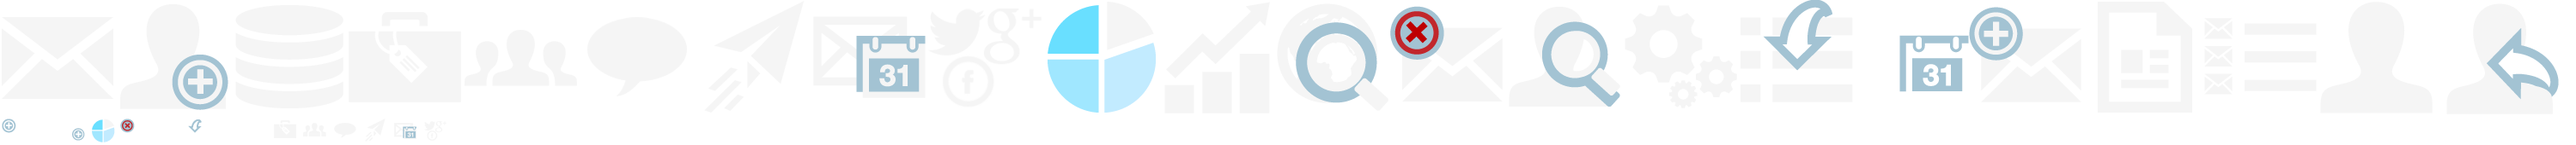
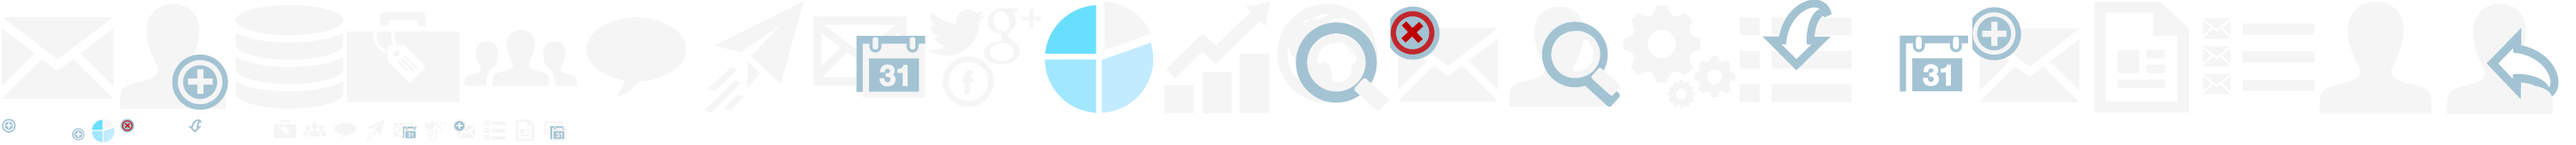
no message

diff --git a/public/b3/css/sm-email-theme.css b/public/b3/css/sm-email-theme.css
@@ -1,1 +1,1 @@
-body{background-color:#f5f5f5}.space{margin-bottom:40px}.wrap{background-color:#e9eff2;padding:12px 0;margin-bottom:20px}.wrapper{padding:25px;margin-bottom:20px}h4.sectiontitle{background-color:#e9eff2;padding:10px;color:#20526e;margin-bottom:30px}.box-dashboard-summary{border-radius:6px;margin:0 0 30px 0;padding:20px 0;text-align:center;color:#f5f5f5}[class^="sm-icons-summary-"]{background:transparent url('../images/sm-icons.png') no-repeat 0 0;height:46px;width:46px}.sm-icons-summary-opens{background-position:0 0}.sm-icons-summary-clicks{background-position:-47px 0}.sm-icons-summary-unsubscribed{background-position:-94px 0}.sm-icons-summary-bounced{background-position:-141px 0}.sm-icons-summary-fb{background-position:-188px 0}.sm-icons-summary-tw{background-position:-235px 0}.summary-opens{background:#97c86b}.number-stats-dashboard-summary{font-size:48px;color:#f5f5f5;padding:20px 8px;text-align:center}@media screen and (max-width:1280px){.number-stats-dashboard-summary{font-size:36px}}@media screen and (max-width:1024px){.number-stats-dashboard-summary{font-size:32px}}@media screen and (max-width:800px){.number-stats-dashboard-summary{font-size:26px}}.summary-unsubscribed{background-color:#a1dcfb}.summary-clicks{background-color:#6e97ac}.summary-bounced{background-color:#ffa100}.summary-box-social{background-color:#adadad;padding-bottom:0}.border-top{border-top:1px solid #f5f5f5}.social-sec-box{padding-bottom:5px;padding-top:5px;border-left:1px solid #f5f5f5}.social-sec-box:first-child{border-left:0}.summary-fb p{padding-right:10px;text-align:right;font-size:20px}.table-normal thead th{height:100px;vertical-align:bottom;text-align:center;font-weight:normal}.table-normal thead th.opens{background:transparent url('../images/icon-email-open-color.png') no-repeat center 12px;color:#97c86b}.table-normal thead th.clics{background:transparent url('../images/icon-clics-color.png') no-repeat center 12px;color:#6e97ac}.table-normal thead th.desusc{background:transparent url('../images/icon-desusc-color.png') no-repeat center 12px;color:#a1dcfb}.table-normal thead th.bounced{background:transparent url('../images/icon-bounced-color.png') no-repeat center 12px;color:#ffa100}.table-normal tbody td{text-align:center}.table-normal tbody td.left{text-align:left}.jqstooltip{-webkit-box-sizing:content-box;-moz-box-sizing:content-box;box-sizing:content-box}#sidebar-background-object{position:fixed;height:100%;top:0;background-color:#20526e}.sidebar{background-color:#20526e;height:100%;float:left;margin:0;padding:0;z-index:2}#main-navigation li{border-left:6px solid #f5f5f5;margin-top:0}#main-navigation li a{color:#e6ba7b;font-size:15px;padding:15px}#main-navigation li.active,#main-navigation li:hover{background-color:#f5f5f5;border-left:6px solid #20526e;border-radius:0}#main-navigation li.active a,#main-navigation li:hover a{background-color:#f5f5f5;border-radius:0;color:#20526e}.navbar-default{background-color:#20526e;border-radius:0;border-color:#20526e;margin-bottom:0}#top-nav li a{color:#f5f5f5}#top-nav li:hover a{color:#777}.sm-btn-blue{background-color:#a4c3d4}.sm-btn-blue:hover{background-color:#315467}.sm-btn-blue.active{background-color:#adadad}.to-do{text-align:center;display:block;border-radius:3px;padding:32px;background-color:#a4c3d4;width:190px;height:190px;margin-bottom:10px}.small-btn{width:42px;height:42px;margin:0;padding-top:3px;border-radius:2px}.small-btn a{display:inline-block}.sm-button-large-base,.sm-button-large-email,.sm-button-large-add-contacts,.sm-button-large-database,.sm-button-large-accounts,.sm-button-large-users,.sm-button-large-msj,.sm-button-large-send-process,.sm-button-large-program-envios,.sm-button-large-socialnet,.sm-button-large-contact-list,.sm-button-large-segment,.sm-button-large-bloq-list,.sm-button-large-contact-search,.sm-button-large-settings,.sm-button-large-import-list,.sm-button-large-admin-prog,.sm-button-large-email-new,.sm-button-large-plantillas,.sm-button-large-email-list{background:transparent url('../images/icon-buttons.png') no-repeat center center;height:134px;width:134px;display:inline-block}.sm-button-large-email{background-position:0 0}.sm-button-large-add-contacts{background-position:-135px 0}.sm-button-large-database{background-position:-270px 0}.sm-button-large-accounts{background-position:-405px 0}.sm-button-large-users{background-position:-540px 0}.sm-button-large-msj{background-position:-675px 0}.sm-button-large-send-process{background-position:-810px 0}.sm-button-large-program-envios{background-position:-945px 0}.sm-button-large-socialnet{background-position:-1080px 0}.sm-button-large-contact-list{background-position:-2700px 0}.sm-button-large-segment{background-position:-1215px 0}.sm-button-large-bloq-list{background-position:-1620px 0}.sm-button-large-contact-search{background-position:-1755px 0}.sm-button-large-settings{background-position:-1890px 0}.sm-button-large-import-list{background-position:-2025px 0}.sm-button-large-admin-prog{background-position:-2160px 0}.sm-button-large-email-new{background-position:-2295px 0}.sm-button-large-plantillas{background-position:-2430px 0}.sm-button-large-email-list{background-position:-2565px 0}.btn-actn{color:#123377;font-size:18px;text-align:center}.sm-button-small-base,.sm-button-small-email,.sm-button-small-contact-list,.sm-button-small-database,.sm-button-small-bloq-list,.sm-button-small-settings,.sm-button-small-import-contacts,.sm-button-small-import-list,.sm-button-small-segment,.sm-button-small-contact-search,.sm-button-small-account,.sm-button-small-user,.sm-button-small-msj,.sm-button-small-send,.sm-button-small-scheduledmail,.sm-button-small-social,.sm-button-small-emal-new,.sm-button-small-email-list{background:transparent url('../images/icon-buttons.png') no-repeat center center;height:34px;width:34px;display:inline-block}.sm-button-small-email{background-position:0 -135px}.sm-button-small-contact-list{background-position:-35px -135px}.sm-button-small-database{background-position:-280px -135px}.sm-button-small-bloq-list{background-position:-140px -135px}.sm-button-small-settings{background-position:-175px -135px}.sm-button-small-import-contacts{background-position:-210px -129}.sm-button-small-import-list{background-position:-210px -135px}.sm-button-small-segment{background-position:-105px -135px}.sm-button-small-contact-search{background-position:-70px -135px}.sm-button-small-account{background-position:-315px -135px}.sm-button-small-user{background-position:-350px -135px}.sm-button-small-msj{background-position:-385px -135px}.sm-button-small-send{background-position:-420px -135px}.sm-button-small-scheduledmail{background-position:-455px -135px}.sm-button-small-social{background-position:-490px -135px}.sm-button-small-emal-new{background-position:-525px -135px}.sm-button-small-email-list{background-position:-560px -135px}.numbers-contacts{margin-bottom:0}.numbers-contacts li{margin-bottom:0;text-align:center;padding:0 15px}.big-number{font-size:30px}.blue{color:#6e97ac}.sad-blue{color:#b3e3e4}.gray{color:#9d9d9d}.green{color:#97c86b}.orange{color:#ef8807}.red{color:#bd1b06}.btn-default{background-color:#ccc;color:#428bca;border:none}.btn-default:hover{text-decoration:underline;color:#666;transition:background-color .5s ease;text-decoration:none;background-color:#b3b3b3}.extra-padding{padding-right:25px;padding-left:25px}.btn-danger{border:none}.btn-delete:hover{background-color:#ac1905;color:#f5f5f5;text-decoration:none}.btn-guardar{background-color:#5cb85c;color:#f5f5f5;text-decoration:none}.btn-guardar:hover{transition:background-color .5s ease;background-color:#5eab07;text-decoration:none}.btn-add:hover{transition:background-color .5s ease;background-color:#58abca;color:#eee;text-decoration:none}.no-bg{background-color:transparent}.no-bg:hover{background-color:transparent;border:none;box-shadow:none}.btn-group.open .dropdown-toggle{box-shadow:none}table.table-contacts tbody tr td{vertical-align:middle}.inactive{background-color:#808080;width:15px}.unsubscribed{background-color:#333;width:15px}.frame-bg-pd{background-color:#eee;padding-top:9px;padding-bottom:0;margin-bottom:15px}.alert-success span{font-size:40px}.form-actions{padding:25px 80px 25px 0}span.required{color:#d9534f;padding-right:4px}.estado-contact .inactive{background-color:#b3e3e4;width:15px}.estado-contact .unsubscribed{background-color:#9d9d9d;width:15px}.bs-callout-primary{display:block;margin:20px 0;padding:15px 30px 15px 15px;border-left:5px solid #428bca;background-color:#f5f9fc}.bs-callout-primary h1,.bs-callout-primary h2,.bs-callout-primary h3,.bs-callout-primary h4,.bs-callout-primary h5,.bs-callout-primary h6{margin-top:0;color:#428bca}.bs-callout-primary p:last-child{margin-bottom:0}.bs-callout-primary code,.bs-callout-primary .highlight{background-color:#fff}.bs-callout-danger{display:block;margin:20px 0;padding:15px 30px 15px 15px;border-left:5px solid #d9534f;background-color:#f9e2e2}.bs-callout-danger h1,.bs-callout-danger h2,.bs-callout-danger h3,.bs-callout-danger h4,.bs-callout-danger h5,.bs-callout-danger h6{margin-top:0;color:#d9534f}.bs-callout-danger p:last-child{margin-bottom:0}.bs-callout-danger code,.bs-callout-danger .highlight{background-color:#fff}.bs-callout-warning{display:block;margin:20px 0;padding:15px 30px 15px 15px;border-left:5px solid #f0ad4e;background-color:#fceedb}.bs-callout-warning h1,.bs-callout-warning h2,.bs-callout-warning h3,.bs-callout-warning h4,.bs-callout-warning h5,.bs-callout-warning h6{margin-top:0;color:#f0ad4e}.bs-callout-warning p:last-child{margin-bottom:0}.bs-callout-warning code,.bs-callout-warning .highlight{background-color:#fff}.bs-callout-info{display:block;margin:20px 0;padding:15px 30px 15px 15px;border-left:5px solid #5bc0de;background-color:#f0f9fc}.bs-callout-info h1,.bs-callout-info h2,.bs-callout-info h3,.bs-callout-info h4,.bs-callout-info h5,.bs-callout-info h6{margin-top:0;color:#5bc0de}.bs-callout-info p:last-child{margin-bottom:0}.bs-callout-info code,.bs-callout-info .highlight{background-color:#fff}.bs-callout-success{display:block;margin:20px 0;padding:15px 30px 15px 15px;border-left:5px solid #5cb85c;background-color:#d8eed8}.bs-callout-success h1,.bs-callout-success h2,.bs-callout-success h3,.bs-callout-success h4,.bs-callout-success h5,.bs-callout-success h6{margin-top:0;color:#5cb85c}.bs-callout-success p:last-child{margin-bottom:0}.bs-callout-success code,.bs-callout-success .highlight{background-color:#fff}.table-striped tbody tr.spreadout>td{background-color:#f0eedf}.table-striped tbody tr.spreadout:nth-child(odd)>td{background-color:#f0eedf}.report h4{color:#20526e}.mini-icon{color:#20526e;font-size:20px;padding-top:6px}table.hight-line>tbody>tr>th{line-height:2.2}table.middle>tbody>tr>th>td{vertical-align:middle}.right{text-align:right}.padding-top{padding-top:15px}#colorchart td{width:25px !important;height:25px !important;cursor:pointer;border:2px #d3d3d3 solid}#colorchart{border-collapse:separate;border:4px #808080 solid}#color.text-for-db-color{display:none !important}#colorchart td:hover{opacity:.5}.color-selected{border:2px #00f solid !important}.list-inline>li.card{padding:5px 20px;border-radius:5px;color:#f5f5f5;text-align:center}.list-inline>li.card span{font-size:30px}.card{margin:0 10px}.cont{background-color:#97c86b}.list{background-color:#ff90a8}.seg{background-color:#6e97ac}.bs-ember-href li a{cursor:pointer}.pointer{cursor:pointer}.border{border:1px solid #c3c3c3}.sm-striped-bg{width:12px;background-size:30px 30px;background-image:linear-gradient(45deg, rgba(0,0,0,0.1) 25%, transparent 25%, transparent 50%, rgba(0,0,0,0.1) 50%, rgba(0,0,0,0.1) 75%, transparent 75%, transparent)}.sm-striped-bg-sm{width:4px;background-size:30px 30px;background-image:linear-gradient(45deg, rgba(0,0,0,0.1) 25%, transparent 25%, transparent 50%, rgba(0,0,0,0.1) 50%, rgba(0,0,0,0.1) 75%, transparent 75%, transparent)}.border-left{border-left:1px solid #c9c9c9}.preview-mail{margin:0 15px 0 0}.item-thumb{margin-bottom:20px}.paneltitle{color:#f0ad4e;border-bottom:2px solid #f0ad4e}.mail-wrapper{background-color:#fff;border:15px solid transparent;padding:25px}.border-mail{-webkit-border-image:url('../images/bg-border-mail.png') 20 20 round;-o-border-image:url('../images/bg-border-mail.png') 20 20 round;border-image:url('../images/bg-border-mail.png') 20 20 round}.thumn-hight{height:414px}.bg-wrap-calendar{background:transparent url("../images/bg-calendar.png") no-repeat 0 0;margin-top:0;width:160px;height:160px}.date{text-align:center;padding-top:36px}.day-send{color:#ac1905;font-size:60px;margin:0}.month-send{font-size:15px;margin:0}.year-send{font-size:15px;margin:0}.time-send{color:#ac1905;font-size:60px;margin:0}.bg-wrap-time{border:4px solid #585858;border-radius:3px;background-color:#303030;margin-top:40px;text-align:center;padding:0 15px;width:200px}.time-send{color:#fff}.width-fix{width:100%}
+body{background-color:#f5f5f5}.space{margin-bottom:40px}.wrap{background-color:#e9eff2;padding:12px 0;margin-bottom:20px}.wrapper{padding:25px;margin-bottom:20px}h4.sectiontitle{background-color:#e9eff2;padding:10px;color:#20526e;margin-bottom:30px}.box-dashboard-summary{border-radius:6px;margin:0 0 30px 0;padding:20px 0;text-align:center;color:#f5f5f5}[class^="sm-icons-summary-"]{background:transparent url('../images/sm-icons.png') no-repeat 0 0;height:46px;width:46px}.sm-icons-summary-opens{background-position:0 0}.sm-icons-summary-clicks{background-position:-47px 0}.sm-icons-summary-unsubscribed{background-position:-94px 0}.sm-icons-summary-bounced{background-position:-141px 0}.sm-icons-summary-fb{background-position:-188px 0}.sm-icons-summary-tw{background-position:-235px 0}.summary-opens{background:#97c86b}.number-stats-dashboard-summary{font-size:48px;color:#f5f5f5;padding:20px 8px;text-align:center}@media screen and (max-width:1280px){.number-stats-dashboard-summary{font-size:36px}}@media screen and (max-width:1024px){.number-stats-dashboard-summary{font-size:32px}}@media screen and (max-width:800px){.number-stats-dashboard-summary{font-size:26px}}.summary-unsubscribed{background-color:#a1dcfb}.summary-clicks{background-color:#6e97ac}.summary-bounced{background-color:#ffa100}.summary-box-social{background-color:#adadad;padding-bottom:0}.border-top{border-top:1px solid #f5f5f5}.social-sec-box{padding-bottom:5px;padding-top:5px;border-left:1px solid #f5f5f5}.social-sec-box:first-child{border-left:0}.summary-fb p{padding-right:10px;text-align:right;font-size:20px}.table-normal thead th{height:100px;vertical-align:bottom;text-align:center;font-weight:normal}.table-normal thead th.opens{background:transparent url('../images/icon-email-open-color.png') no-repeat center 12px;color:#97c86b}.table-normal thead th.clics{background:transparent url('../images/icon-clics-color.png') no-repeat center 12px;color:#6e97ac}.table-normal thead th.desusc{background:transparent url('../images/icon-desusc-color.png') no-repeat center 12px;color:#a1dcfb}.table-normal thead th.bounced{background:transparent url('../images/icon-bounced-color.png') no-repeat center 12px;color:#ffa100}.table-normal tbody td{text-align:center}.table-normal tbody td.left{text-align:left}.jqstooltip{-webkit-box-sizing:content-box;-moz-box-sizing:content-box;box-sizing:content-box}#sidebar-background-object{position:fixed;height:100%;top:0;background-color:#20526e}.sidebar{background-color:#20526e;height:100%;float:left;margin:0;padding:0;z-index:2}#main-navigation li{border-left:6px solid #f5f5f5;margin-top:0}#main-navigation li a{color:#e6ba7b;font-size:15px;padding:15px}#main-navigation li.active,#main-navigation li:hover{background-color:#f5f5f5;border-left:6px solid #20526e;border-radius:0}#main-navigation li.active a,#main-navigation li:hover a{background-color:#f5f5f5;border-radius:0;color:#20526e}.navbar-default{background-color:#20526e;border-radius:0;border-color:#20526e;margin-bottom:0}#top-nav li a{color:#f5f5f5}#top-nav li:hover a{color:#777}.sm-btn-blue{background-color:#a4c3d4}.sm-btn-blue:hover{background-color:#315467}.sm-btn-blue.active{background-color:#adadad}.to-do{text-align:center;display:block;border-radius:3px;padding:32px;background-color:#a4c3d4;width:190px;height:190px;margin-bottom:10px}.small-btn{width:42px;height:42px;margin:0;padding-top:3px;border-radius:2px}.small-btn a{display:inline-block}.sm-button-large-base,.sm-button-large-email,.sm-button-large-add-contacts,.sm-button-large-database,.sm-button-large-accounts,.sm-button-large-users,.sm-button-large-msj,.sm-button-large-send-process,.sm-button-large-program-envios,.sm-button-large-socialnet,.sm-button-large-contact-list,.sm-button-large-segment,.sm-button-large-bloq-list,.sm-button-large-contact-search,.sm-button-large-settings,.sm-button-large-import-list,.sm-button-large-admin-prog,.sm-button-large-email-new,.sm-button-large-plantillas,.sm-button-large-email-list{background:transparent url('../images/icon-buttons.png') no-repeat center center;height:134px;width:134px;display:inline-block}.sm-button-large-email{background-position:0 0}.sm-button-large-add-contacts{background-position:-135px 0}.sm-button-large-database{background-position:-270px 0}.sm-button-large-accounts{background-position:-405px 0}.sm-button-large-users{background-position:-540px 0}.sm-button-large-msj{background-position:-675px 0}.sm-button-large-send-process{background-position:-810px 0}.sm-button-large-program-envios{background-position:-945px 0}.sm-button-large-socialnet{background-position:-1080px 0}.sm-button-large-contact-list{background-position:-2700px 0}.sm-button-large-segment{background-position:-1215px 0}.sm-button-large-bloq-list{background-position:-1620px 0}.sm-button-large-contact-search{background-position:-1755px 0}.sm-button-large-settings{background-position:-1890px 0}.sm-button-large-import-list{background-position:-2025px 0}.sm-button-large-admin-prog{background-position:-2160px 0}.sm-button-large-email-new{background-position:-2295px 0}.sm-button-large-plantillas{background-position:-2430px 0}.sm-button-large-email-list{background-position:-2565px 0}.btn-actn{color:#123377;font-size:18px;text-align:center}.w-190{width:190px}.center{text-align:center}.sm-button-small-base,.sm-button-small-email,.sm-button-small-contact-list,.sm-button-small-database,.sm-button-small-bloq-list,.sm-button-small-settings,.sm-button-small-import-contacts,.sm-button-small-import-list,.sm-button-small-segment,.sm-button-small-contact-search,.sm-button-small-account,.sm-button-small-user,.sm-button-small-msj,.sm-button-small-send,.sm-button-small-scheduledmail,.sm-button-small-social,.sm-button-small-email-new,.sm-button-small-email-list,.sm-button-small-template,.sm-button-small-schedule{background:transparent url('../images/icon-buttons.png') no-repeat center center;height:34px;width:34px;display:inline-block}.sm-button-small-email{background-position:0 -135px}.sm-button-small-contact-list{background-position:-35px -135px}.sm-button-small-database{background-position:-280px -135px}.sm-button-small-bloq-list{background-position:-140px -135px}.sm-button-small-settings{background-position:-175px -135px}.sm-button-small-import-contacts{background-position:-210px -129}.sm-button-small-import-list{background-position:-210px -135px}.sm-button-small-segment{background-position:-105px -135px}.sm-button-small-contact-search{background-position:-70px -135px}.sm-button-small-account{background-position:-315px -135px}.sm-button-small-user{background-position:-350px -135px}.sm-button-small-msj{background-position:-385px -135px}.sm-button-small-send{background-position:-420px -135px}.sm-button-small-scheduledmail{background-position:-455px -135px}.sm-button-small-social{background-position:-490px -135px}.sm-button-small-email-new{background-position:-525px -135px}.sm-button-small-email-list{background-position:-560px -135px}.sm-button-small-template{background-position:-595px -135px}.sm-button-small-schedule{background-position:-630px -135px}.numbers-contacts{margin-bottom:0}.numbers-contacts li{margin-bottom:0;text-align:center;padding:0 15px}.big-number{font-size:30px}.blue{color:#6e97ac}.sad-blue{color:#b3e3e4}.gray{color:#9d9d9d}.green{color:#97c86b}.orange{color:#ef8807}.red{color:#bd1b06}.btn-default{background-color:#ccc;color:#428bca;border:none}.btn-default:hover{text-decoration:underline;color:#666;transition:background-color .5s ease;text-decoration:none;background-color:#b3b3b3}.extra-padding{padding-right:25px;padding-left:25px}.btn-danger{border:none}.btn-delete:hover{background-color:#ac1905;color:#f5f5f5;text-decoration:none}.btn-guardar{background-color:#5cb85c;color:#f5f5f5;text-decoration:none}.btn-guardar:hover{transition:background-color .5s ease;background-color:#5eab07;text-decoration:none}.btn-add:hover{transition:background-color .5s ease;background-color:#58abca;color:#eee;text-decoration:none}.no-bg{background-color:transparent}.no-bg:hover{background-color:transparent;border:none;box-shadow:none}.btn-group.open .dropdown-toggle{box-shadow:none}table.table-contacts tbody tr td{vertical-align:middle}.inactive{background-color:#808080;width:15px}.unsubscribed{background-color:#333;width:15px}.frame-bg-pd{background-color:#eee;padding-top:9px;padding-bottom:0;margin-bottom:15px}.alert-success span{font-size:40px}.form-actions{padding:25px 80px 25px 0}span.required{color:#d9534f;padding-right:4px}.estado-contact .inactive{background-color:#b3e3e4;width:15px}.estado-contact .unsubscribed{background-color:#9d9d9d;width:15px}.bs-callout-primary{display:block;margin:20px 0;padding:15px 30px 15px 15px;border-left:5px solid #428bca;background-color:#f5f9fc}.bs-callout-primary h1,.bs-callout-primary h2,.bs-callout-primary h3,.bs-callout-primary h4,.bs-callout-primary h5,.bs-callout-primary h6{margin-top:0;color:#428bca}.bs-callout-primary p:last-child{margin-bottom:0}.bs-callout-primary code,.bs-callout-primary .highlight{background-color:#fff}.bs-callout-danger{display:block;margin:20px 0;padding:15px 30px 15px 15px;border-left:5px solid #d9534f;background-color:#f9e2e2}.bs-callout-danger h1,.bs-callout-danger h2,.bs-callout-danger h3,.bs-callout-danger h4,.bs-callout-danger h5,.bs-callout-danger h6{margin-top:0;color:#d9534f}.bs-callout-danger p:last-child{margin-bottom:0}.bs-callout-danger code,.bs-callout-danger .highlight{background-color:#fff}.bs-callout-warning{display:block;margin:20px 0;padding:15px 30px 15px 15px;border-left:5px solid #f0ad4e;background-color:#fceedb}.bs-callout-warning h1,.bs-callout-warning h2,.bs-callout-warning h3,.bs-callout-warning h4,.bs-callout-warning h5,.bs-callout-warning h6{margin-top:0;color:#f0ad4e}.bs-callout-warning p:last-child{margin-bottom:0}.bs-callout-warning code,.bs-callout-warning .highlight{background-color:#fff}.bs-callout-info{display:block;margin:20px 0;padding:15px 30px 15px 15px;border-left:5px solid #5bc0de;background-color:#f0f9fc}.bs-callout-info h1,.bs-callout-info h2,.bs-callout-info h3,.bs-callout-info h4,.bs-callout-info h5,.bs-callout-info h6{margin-top:0;color:#5bc0de}.bs-callout-info p:last-child{margin-bottom:0}.bs-callout-info code,.bs-callout-info .highlight{background-color:#fff}.bs-callout-success{display:block;margin:20px 0;padding:15px 30px 15px 15px;border-left:5px solid #5cb85c;background-color:#d8eed8}.bs-callout-success h1,.bs-callout-success h2,.bs-callout-success h3,.bs-callout-success h4,.bs-callout-success h5,.bs-callout-success h6{margin-top:0;color:#5cb85c}.bs-callout-success p:last-child{margin-bottom:0}.bs-callout-success code,.bs-callout-success .highlight{background-color:#fff}.table-striped tbody tr.spreadout>td{background-color:#f0eedf}.table-striped tbody tr.spreadout:nth-child(odd)>td{background-color:#f0eedf}.report h4{color:#20526e}.mini-icon{color:#20526e;font-size:20px;padding-top:6px}table.hight-line>tbody>tr>th{line-height:2.2}table.middle>tbody>tr>th>td{vertical-align:middle}.right{text-align:right}.padding-top{padding-top:15px}#colorchart td{width:25px !important;height:25px !important;cursor:pointer;border:2px #d3d3d3 solid}#colorchart{border-collapse:separate;border:4px #808080 solid}#color.text-for-db-color{display:none !important}#colorchart td:hover{opacity:.5}.color-selected{border:2px #00f solid !important}.list-inline>li.card{padding:5px 20px;border-radius:5px;color:#f5f5f5;text-align:center}.list-inline>li.card span{font-size:30px}.card{margin:0 10px}.cont{background-color:#97c86b}.list{background-color:#ff90a8}.seg{background-color:#6e97ac}.bs-ember-href li a{cursor:pointer}.pointer{cursor:pointer}.border{border:1px solid #c3c3c3}.sm-striped-bg{width:12px;background-size:30px 30px;background-image:linear-gradient(45deg, rgba(0,0,0,0.1) 25%, transparent 25%, transparent 50%, rgba(0,0,0,0.1) 50%, rgba(0,0,0,0.1) 75%, transparent 75%, transparent)}.sm-striped-bg-sm{width:4px;background-size:30px 30px;background-image:linear-gradient(45deg, rgba(0,0,0,0.1) 25%, transparent 25%, transparent 50%, rgba(0,0,0,0.1) 50%, rgba(0,0,0,0.1) 75%, transparent 75%, transparent)}.border-left{border-left:1px solid #c9c9c9}.preview-mail{margin:0 15px 0 0}.item-thumb{margin-bottom:20px}.paneltitle{color:#f0ad4e;border-bottom:2px solid #f0ad4e}.mail-wrapper{background-color:#fff;border:15px solid transparent;padding:25px}.border-mail{-webkit-border-image:url('../images/bg-border-mail.png') 20 20 round;-o-border-image:url('../images/bg-border-mail.png') 20 20 round;border-image:url('../images/bg-border-mail.png') 20 20 round}.thumn-hight{height:414px}.bg-wrap-calendar{background:transparent url("../images/bg-calendar.png") no-repeat 0 0;margin-top:0;width:160px;height:160px}.date{text-align:center;padding-top:36px}.day-send{color:#ac1905;font-size:60px;margin:0}.month-send{font-size:15px;margin:0}.year-send{font-size:15px;margin:0}.time-send{color:#ac1905;font-size:60px;margin:0}.bg-wrap-time{border:4px solid #585858;border-radius:3px;background-color:#303030;margin-top:40px;text-align:center;padding:0 15px;width:200px}.time-send{color:#fff}.width-fix{width:100%}

diff --git a/public/b3/css/sm-email-theme.less b/public/b3/css/sm-email-theme.less
@@ -392,6 +392,12 @@ h4.sectiontitle {
 	font-size: 18px;
 	text-align: center;
 }
+.w-190 {
+	width: 190px;
+}
+.center {
+	text-align: center;
+}
 
 /* Estilos para botones de accion pequeños */
 
@@ -461,12 +467,20 @@ h4.sectiontitle {
 	.pos-icons(14, @shortcuts-small-icons-width);
 	background-position: @position @sm-icon-pos-y;
 }
-.sm-button-small-emal-new:extend(.sm-button-small-base) {
+.sm-button-small-email-new:extend(.sm-button-small-base) {
 	.pos-icons(15, @shortcuts-small-icons-width);
 	background-position: @position @sm-icon-pos-y;
 }
 .sm-button-small-email-list:extend(.sm-button-small-base) {
 	.pos-icons(16, @shortcuts-small-icons-width);
+	background-position: @position @sm-icon-pos-y;
+}
+.sm-button-small-template:extend(.sm-button-small-base) {
+	.pos-icons(17, @shortcuts-small-icons-width);
+	background-position: @position @sm-icon-pos-y;
+}
+.sm-button-small-schedule:extend(.sm-button-small-base) {
+	.pos-icons(18, @shortcuts-small-icons-width);
 	background-position: @position @sm-icon-pos-y;
 }
 /* Fin estilos para la navegación interna con iconos pequeños */
